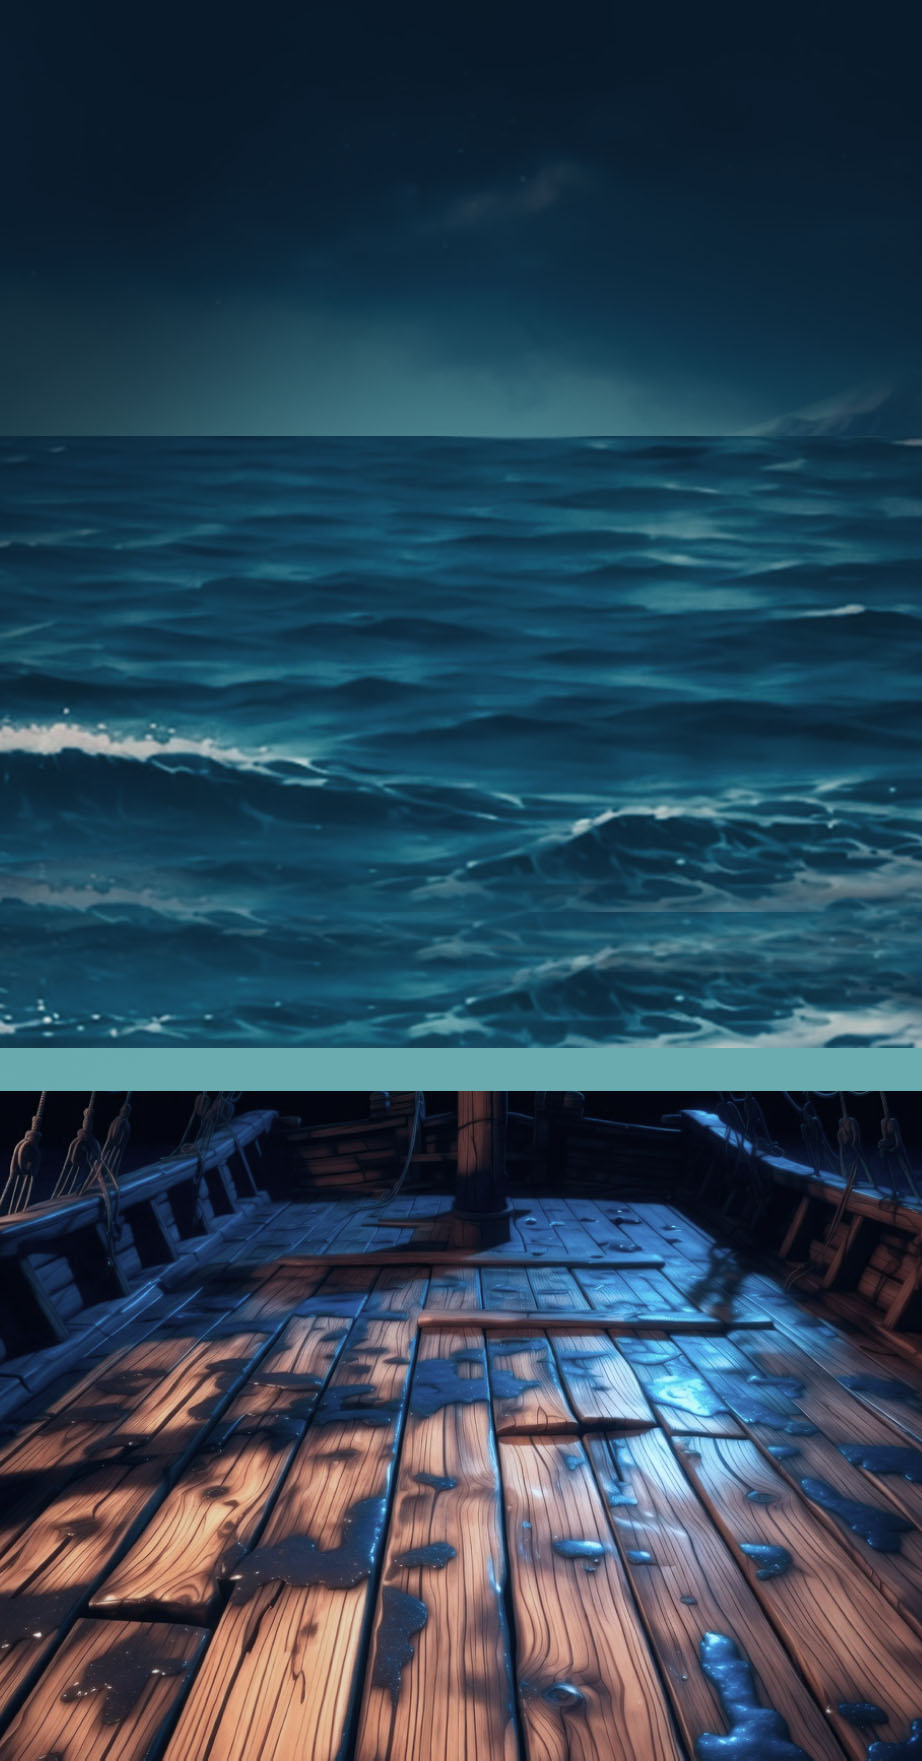
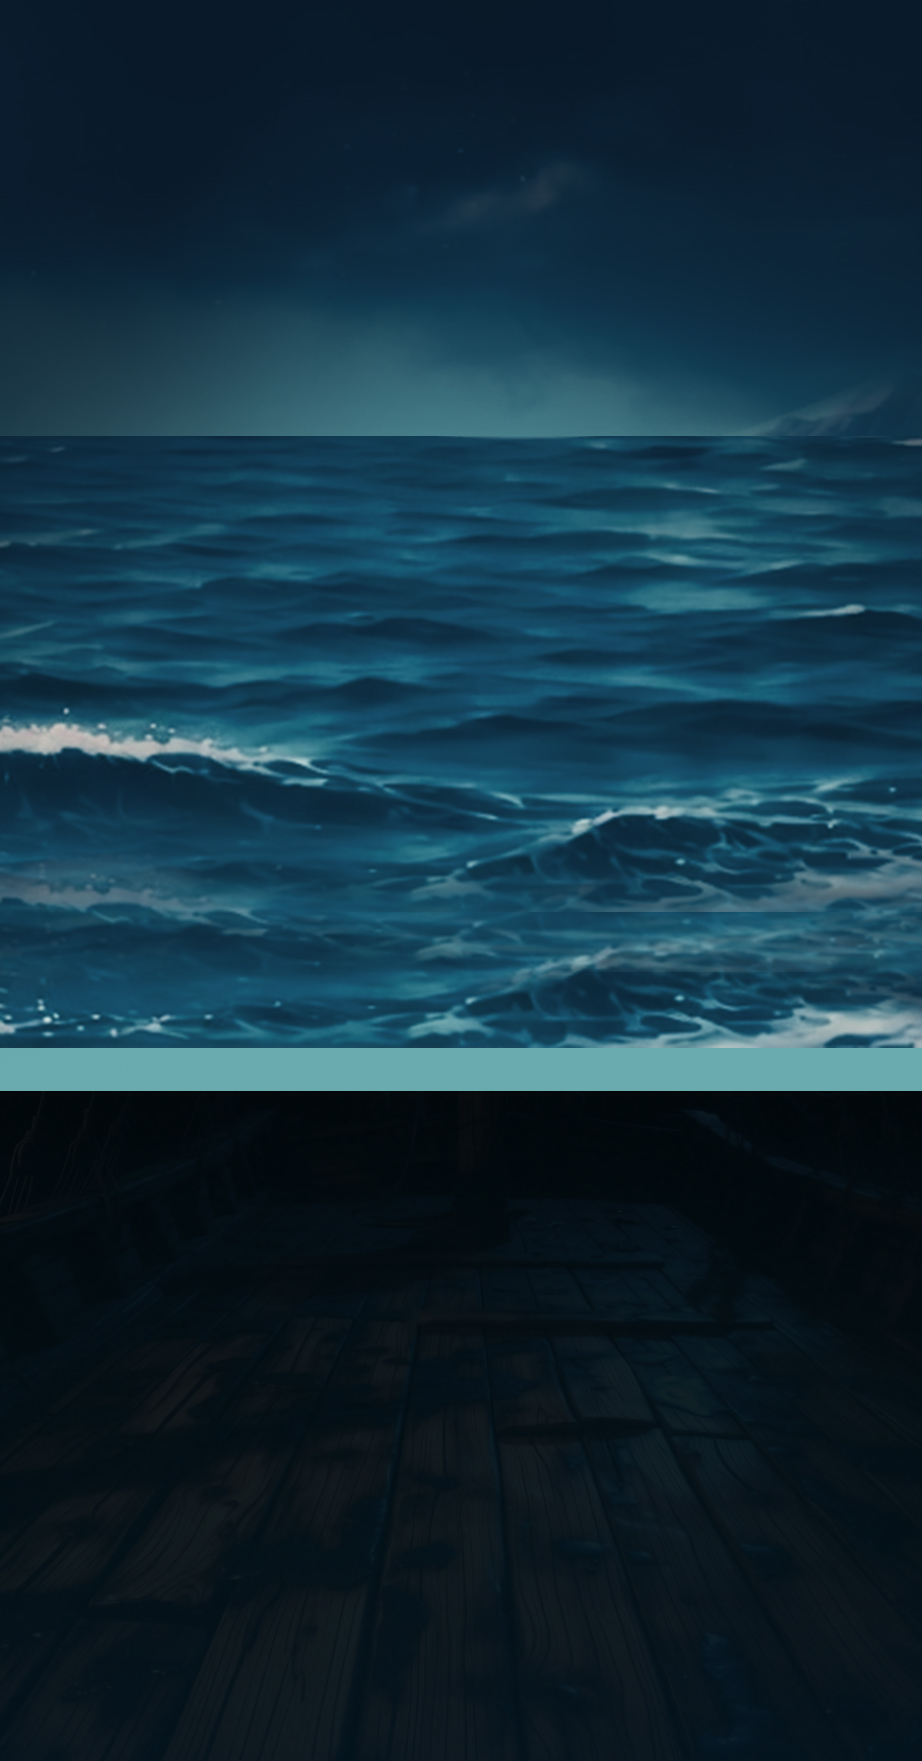
update bonus game mobile bg and tornado

Changed region(s): [[0.0, 0.5934, 1.0, 1.0]]

diff --git a/apps/plinko/src/lib/spine/bonusOverlayAssets.ts b/apps/plinko/src/lib/spine/bonusOverlayAssets.ts
@@ -195,7 +195,10 @@ export const getBonusTornadoOverlay = (
 		skeleton: staticAssetPath(`${TORNADO_BASE}/skeleton.json`),
 		atlas: staticAssetPath(`${TORNADO_BASE}/skeleton.atlas`),
 		images: {
+			// The tornado atlas is TWO pages — frames 7–9 live on `skeleton_2.png`. Both must be mapped
+			// or those frames of the 58-frame sequence render blank.
 			'skeleton.png': staticAssetPath(`${TORNADO_BASE}/skeleton.png`),
+			'skeleton_2.png': staticAssetPath(`${TORNADO_BASE}/skeleton_2.png`),
 		},
 		animation: 'animation',
 		loop: true,
